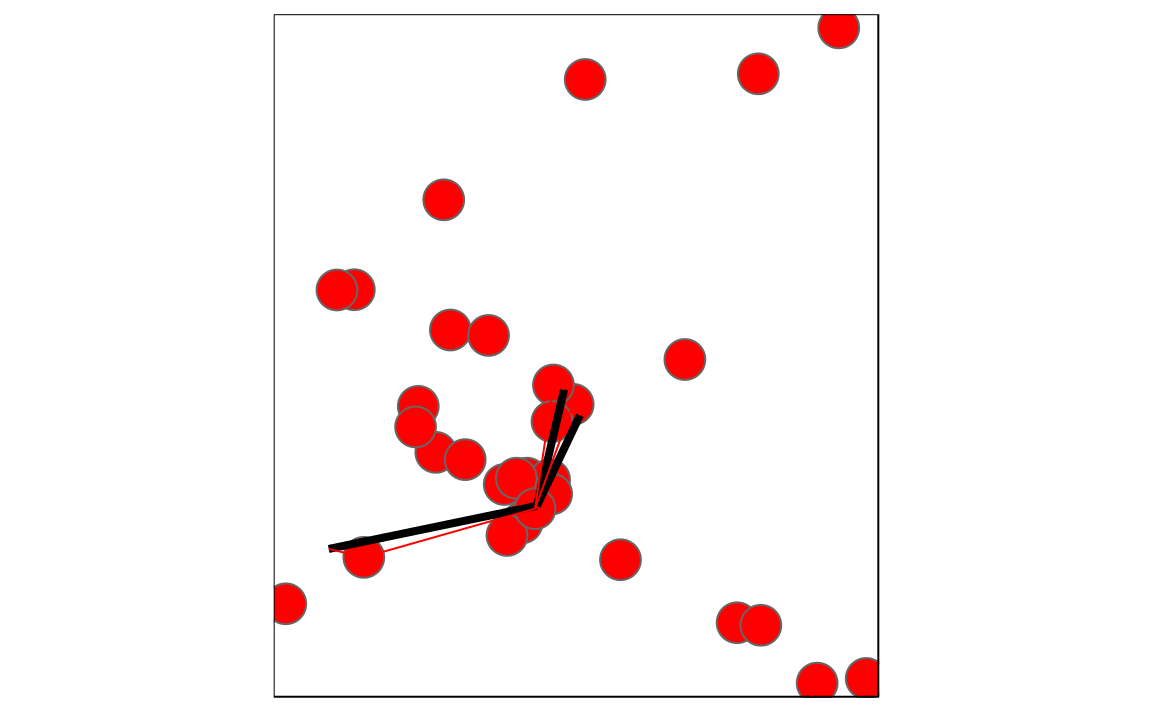
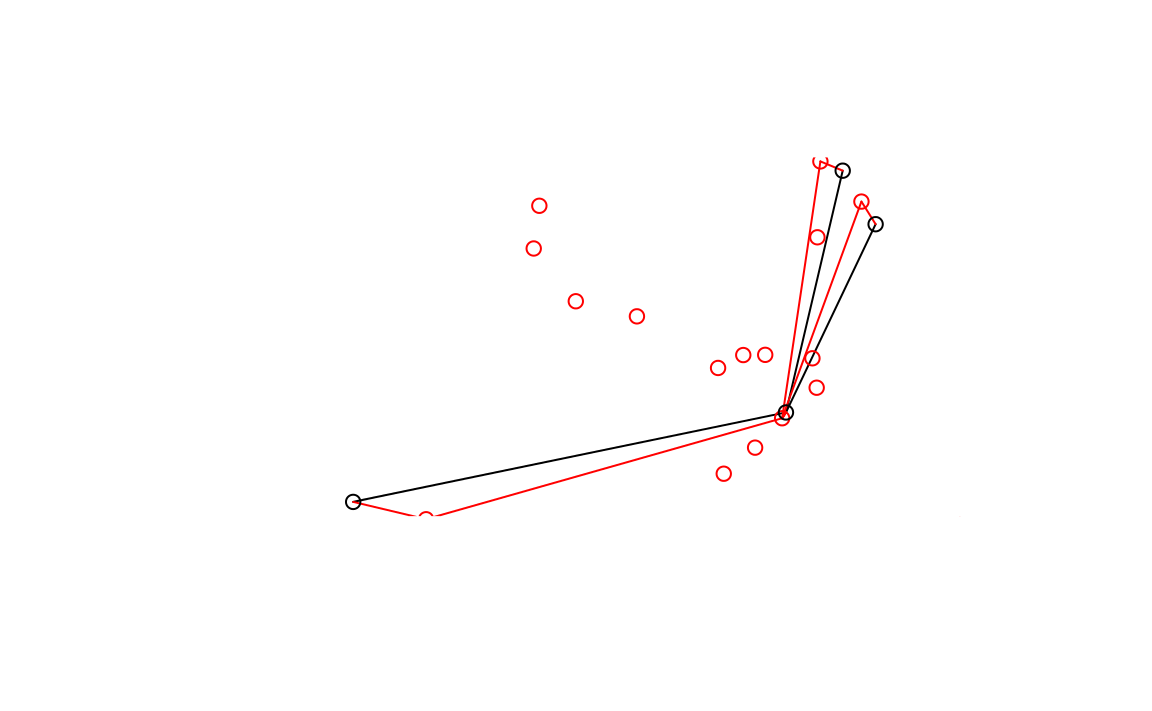
Updating book (2183)
Former-commit-id: 1b17fe78cc4268cdd24760a243de47f2bb1592ec
Former-commit-id: 9798627bd1accd9b9d61b34b6f3f15f5dba90643

diff --git a/transport.html b/transport.html
@@ -25,7 +25,7 @@
 <meta name="author" content="Robin Lovelace, Jakub Nowosad, Jannes Muenchow">
 
 
-<meta name="date" content="2018-01-03">
+<meta name="date" content="2018-01-04">
 
   <meta name="viewport" content="width=device-width, initial-scale=1">
   <meta name="apple-mobile-web-app-capable" content="yes">
@@ -550,9 +550,9 @@ for(i in <span class="dv">1</span>:<span class="kw">nrow</span>(desire_rail)) {
 legs =<span class="st"> </span><span class="kw">st_sf</span>(<span class="dt">geometry =</span> <span class="kw">st_sfc</span>(multi), <span class="dt">crs =</span> <span class="dv">4326</span>)</code></pre></div>
 <p>Now we are in a position to visualize the results, in Figure <a href="transport.html#fig:stations">8.5</a>: the three initial <code>desire_rail</code> lines have been converted into a new simple features object <code>legs</code> representing travel from home to the origin station, from there to the destination, and finally from the destination station to the destination. In this case the destination leg is very short (walking distance) but the origin legs may be sufficiently far to justify investment in cycling infrastructure to encourage people to cycle to the stations on the outward leg of peoples’ journey to work in the residential areas surrounding the three origin stations in Figure <a href="transport.html#fig:stations">8.5</a>.</p>
 <div class="figure" style="text-align: center"><span id="fig:stations"></span>
-<img src="figures/stations-1.png" alt="Illustration of station nodes on the network (red dots) used as intermediary points that convert the straight desire lines into three desire lines representing origin, public transport and destination legs of a journey by public transport and other modes." width="576" />
+<img src="figures/stations-1.png" alt="Station nodes (red dots) used as intermediary points that convert straight desire lines with high rail usage (black) into three legs (red)." width="576" />
 <p class="caption">
-Figure 8.5: Illustration of station nodes on the network (red dots) used as intermediary points that convert the straight desire lines into three desire lines representing origin, public transport and destination legs of a journey by public transport and other modes.
+Figure 8.5: Station nodes (red dots) used as intermediary points that convert straight desire lines with high rail usage (black) into three legs (red).
 </p>
 </div>
 </div>

diff --git a/index.html b/index.html
@@ -25,7 +25,7 @@
 <meta name="author" content="Robin Lovelace, Jakub Nowosad, Jannes Muenchow">
 
 
-<meta name="date" content="2018-01-03">
+<meta name="date" content="2018-01-04">
 
   <meta name="viewport" content="width=device-width, initial-scale=1">
   <meta name="apple-mobile-web-app-capable" content="yes">
@@ -292,7 +292,7 @@ code > span.in { color: #60a0b0; font-weight: bold; font-style: italic; } /* Inf
 <div id="header">
 <h1 class="title">Geocomputation with R</h1>
 <h4 class="author"><em>Robin Lovelace, Jakub Nowosad, Jannes Muenchow</em></h4>
-<h4 class="date"><em>2018-01-03</em></h4>
+<h4 class="date"><em>2018-01-04</em></h4>
 </div>
 <div id="welcome" class="section level1 unnumbered">
 <h1>Welcome</h1>
@@ -309,7 +309,7 @@ code > span.in { color: #60a0b0; font-weight: bold; font-style: italic; } /* Inf
 </ol>
 <p>Currently the focus is on Part 2, which we aim to be complete by December. New chapters will be added to this website as the project progresses, hosted at <a href="https://geocompr.robinlovelace.net">geocompr.robinlovelace.net</a> and kept up-to-date thanks to <a href="https://travis-ci.org/Robinlovelace/geocompr">Travis</a>. Currently the build is:</p>
 <p><a href="https://travis-ci.org/Robinlovelace/geocompr"><img src="https://travis-ci.org/Robinlovelace/geocompr.svg?branch=master" alt="Build Status" /></a></p>
-<p>The version of the book you are reading now was built on 2018-01-03 and was built on <a href="https://travis-ci.org/Robinlovelace/geocompr">Travis</a>.</p>
+<p>The version of the book you are reading now was built on 2018-01-04 and was built on <a href="https://travis-ci.org/Robinlovelace/geocompr">Travis</a>.</p>
 </div>
 <div id="how-to-contribute" class="section level2 unnumbered">
 <h2>How to contribute?</h2>

diff --git a/attr.html b/attr.html
@@ -25,7 +25,7 @@
 <meta name="author" content="Robin Lovelace, Jakub Nowosad, Jannes Muenchow">
 
 
-<meta name="date" content="2018-01-03">
+<meta name="date" content="2018-01-04">
 
   <meta name="viewport" content="width=device-width, initial-scale=1">
   <meta name="apple-mobile-web-app-capable" content="yes">

diff --git a/intro.html b/intro.html
@@ -25,7 +25,7 @@
 <meta name="author" content="Robin Lovelace, Jakub Nowosad, Jannes Muenchow">
 
 
-<meta name="date" content="2018-01-03">
+<meta name="date" content="2018-01-04">
 
   <meta name="viewport" content="width=device-width, initial-scale=1">
   <meta name="apple-mobile-web-app-capable" content="yes">

diff --git a/location.html b/location.html
@@ -25,7 +25,7 @@
 <meta name="author" content="Robin Lovelace, Jakub Nowosad, Jannes Muenchow">
 
 
-<meta name="date" content="2018-01-03">
+<meta name="date" content="2018-01-04">
 
   <meta name="viewport" content="width=device-width, initial-scale=1">
   <meta name="apple-mobile-web-app-capable" content="yes">

diff --git a/preface.html b/preface.html
@@ -25,7 +25,7 @@
 <meta name="author" content="Robin Lovelace, Jakub Nowosad, Jannes Muenchow">
 
 
-<meta name="date" content="2018-01-03">
+<meta name="date" content="2018-01-04">
 
   <meta name="viewport" content="width=device-width, initial-scale=1">
   <meta name="apple-mobile-web-app-capable" content="yes">

diff --git a/read-write.html b/read-write.html
@@ -25,7 +25,7 @@
 <meta name="author" content="Robin Lovelace, Jakub Nowosad, Jannes Muenchow">
 
 
-<meta name="date" content="2018-01-03">
+<meta name="date" content="2018-01-04">
 
   <meta name="viewport" content="width=device-width, initial-scale=1">
   <meta name="apple-mobile-web-app-capable" content="yes">

diff --git a/references.html b/references.html
@@ -25,7 +25,7 @@
 <meta name="author" content="Robin Lovelace, Jakub Nowosad, Jannes Muenchow">
 
 
-<meta name="date" content="2018-01-03">
+<meta name="date" content="2018-01-04">
 
   <meta name="viewport" content="width=device-width, initial-scale=1">
   <meta name="apple-mobile-web-app-capable" content="yes">
